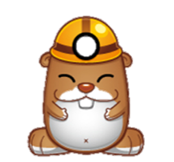
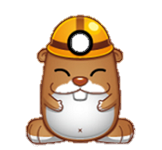
mouse-hitted-skin-shift

diff --git a/bin/js/bundle.js b/bin/js/bundle.js
@@ -1,6 +1,30 @@
 (function () {
     'use strict';
 
+    class Hammer extends Laya.Script {
+        // 在此声明给父组件内所有要绑定值的子组件(所有要展示值的组件都要)
+        // Hammer没有子组件所以不用声明
+
+        constructor() {
+            super();
+
+
+        }
+
+        // 通常用于声明成员变量
+        onAwake() {}
+
+        // 每一帧函数执行之前执行，一般用于初始化
+        onStart() {}
+
+        onDisable() {}
+
+        onUpdate() {}
+
+        // 自定义方法
+
+    }
+
     let GameConfig = {
         // 树洞坐标数组
         arrPosMouse: [
@@ -10,7 +34,7 @@
         ],
     };
 
-    class template extends Laya.Script {
+    class Mouse extends Laya.Script {
         // 在此声明给父组件内所有要绑定值的子组件(所有要展示值的组件都要)
         // Mouse没有子组件所以不用声明
 
@@ -38,6 +62,26 @@
 
         onClick(e) {
             console.log("打到了老鼠："+this.indexPosMouse);
+
+            this.owner.skin = "res/mouse_hitted0"+this.typeMouse+".png";
+
+            // 销毁播放中的发大动画
+            if(this.timeLine){
+                this.timeLine.destroy();
+                this.timeLine = null;
+            }
+            //创建击中时的时间轴动画(地鼠花300毫秒变小回0)
+            this.timeLine = Laya.TimeLine.to(this.owner, {scaleX:0,scaleY:0}, 300, null, 1000);
+            this.timeLine.play(0,false); // 播放动画
+            
+            // 监听动画播放完事件后，执行函数删除
+            this.timeLine.on(Laya.Event.COMPLETE, this, function() {
+                this.owner.removeSelf();
+
+                // 把传进来的gameManager里的老鼠数组[位置index]赋值为空
+                this.gameManager.arrMouse[this.indexPosMouse] = null;
+            });
+
         }
 
         // 自定义方法
@@ -64,7 +108,7 @@
                 this.owner.removeSelf();
 
                 // 把传进来的gameManager里的老鼠数组[位置index]赋值为空
-                this.gameManager.arrMouse[indexPosMouse] = null;
+                this.gameManager.arrMouse[this.indexPosMouse] = null;
             });
         }
 
@@ -193,7 +237,7 @@
                 this.arrMouse[indexPosMouse] = mouse;
 
                 //拿到Mouse组件(Mouse.js脚本已经绑定了Mouse组件，import完getComponent就可以拿到)
-                let compMouse = mouse.getComponent(template); 
+                let compMouse = mouse.getComponent(Mouse); 
                 let typeMouse = this.getRandomInt(1,2); //随机1或2
 
                 //把this(整个GameManager)传到Mouse.js里方便拿到arrMouse数组，
@@ -229,8 +273,9 @@
         static init() {
             //注册Script或者Runtime引用
             let reg = Laya.ClassUtils.regClass;
+    		reg("game/Hammer.js",Hammer);
     		reg("game/GameManager.js",GameManager);
-    		reg("game/Mouse.js",template);
+    		reg("game/Mouse.js",Mouse);
         }
     }
     GameConfig$1.width = 960;

diff --git a/src/game/Mouse.js b/src/game/Mouse.js
@@ -1,4 +1,4 @@
-export default class template extends Laya.Script {
+export default class Mouse extends Laya.Script {
     // 在此声明给父组件内所有要绑定值的子组件(所有要展示值的组件都要)
     // Mouse没有子组件所以不用声明
 
@@ -26,6 +26,26 @@ export default class template extends Laya.Script {
 
     onClick(e) {
         console.log("打到了老鼠："+this.indexPosMouse);
+
+        this.owner.skin = "res/mouse_hitted0"+this.typeMouse+".png";
+
+        // 销毁播放中的发大动画
+        if(this.timeLine){
+            this.timeLine.destroy();
+            this.timeLine = null;
+        }
+        //创建击中时的时间轴动画(地鼠花300毫秒变小回0)
+        this.timeLine = Laya.TimeLine.to(this.owner, {scaleX:0,scaleY:0}, 300, null, 1000);
+        this.timeLine.play(0,false); // 播放动画
+        
+        // 监听动画播放完事件后，执行函数删除
+        this.timeLine.on(Laya.Event.COMPLETE, this, function() {
+            this.owner.removeSelf();
+
+            // 把传进来的gameManager里的老鼠数组[位置index]赋值为空
+            this.gameManager.arrMouse[this.indexPosMouse] = null;
+        });
+
     }
 
     // 自定义方法
@@ -52,7 +72,7 @@ export default class template extends Laya.Script {
             this.owner.removeSelf();
 
             // 把传进来的gameManager里的老鼠数组[位置index]赋值为空
-            this.gameManager.arrMouse[indexPosMouse] = null;
+            this.gameManager.arrMouse[this.indexPosMouse] = null;
         });
     }
 

diff --git a/src/GameConfig.js b/src/GameConfig.js
@@ -1,4 +1,5 @@
 /**This class is automatically generated by LayaAirIDE, please do not make any modifications. */
+import Hammer from "./game/Hammer"
 import GameManager from "./game/GameManager"
 import Mouse from "./game/Mouse"
 
@@ -6,6 +7,7 @@ export default class GameConfig {
     static init() {
         //注册Script或者Runtime引用
         let reg = Laya.ClassUtils.regClass;
+		reg("game/Hammer.js",Hammer);
 		reg("game/GameManager.js",GameManager);
 		reg("game/Mouse.js",Mouse);
     }

diff --git a/src/game/Hammer.js b/src/game/Hammer.js
@@ -1,0 +1,23 @@
+export default class Hammer extends Laya.Script {
+    // 在此声明给父组件内所有要绑定值的子组件(所有要展示值的组件都要)
+    // Hammer没有子组件所以不用声明
+
+    constructor() {
+        super()
+
+
+    }
+
+    // 通常用于声明成员变量
+    onAwake() {}
+
+    // 每一帧函数执行之前执行，一般用于初始化
+    onStart() {}
+
+    onDisable() {}
+
+    onUpdate() {}
+
+    // 自定义方法
+
+}
